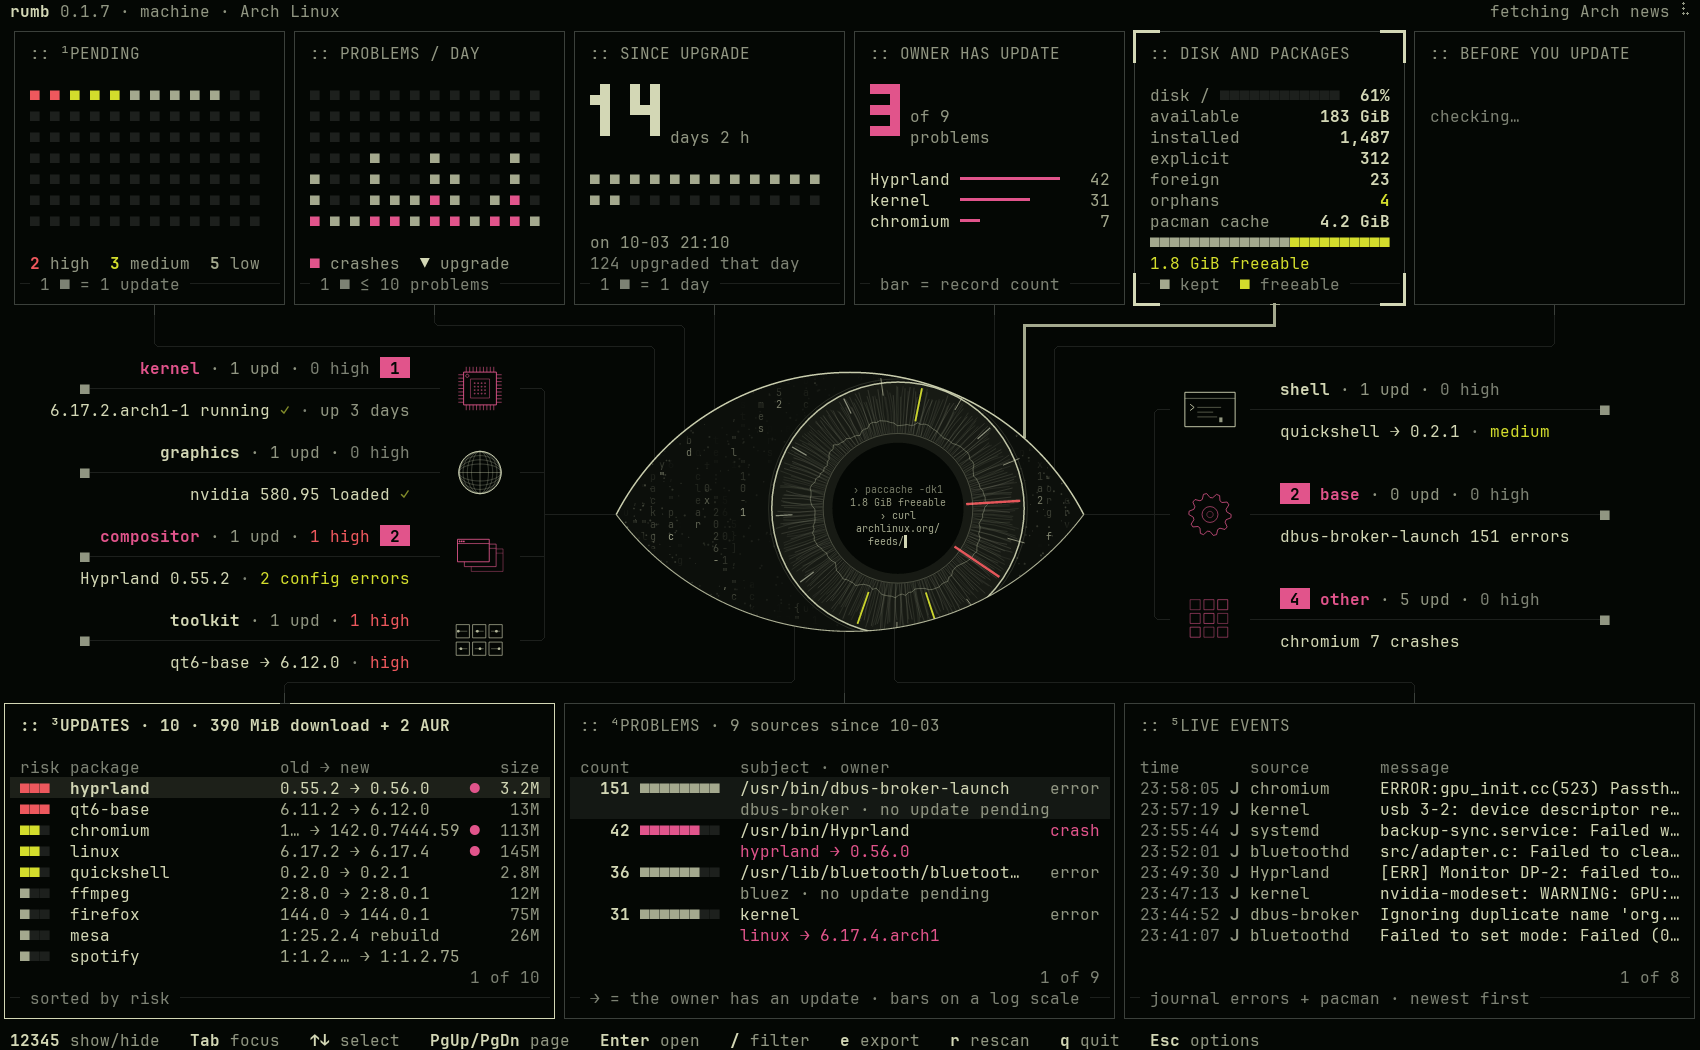
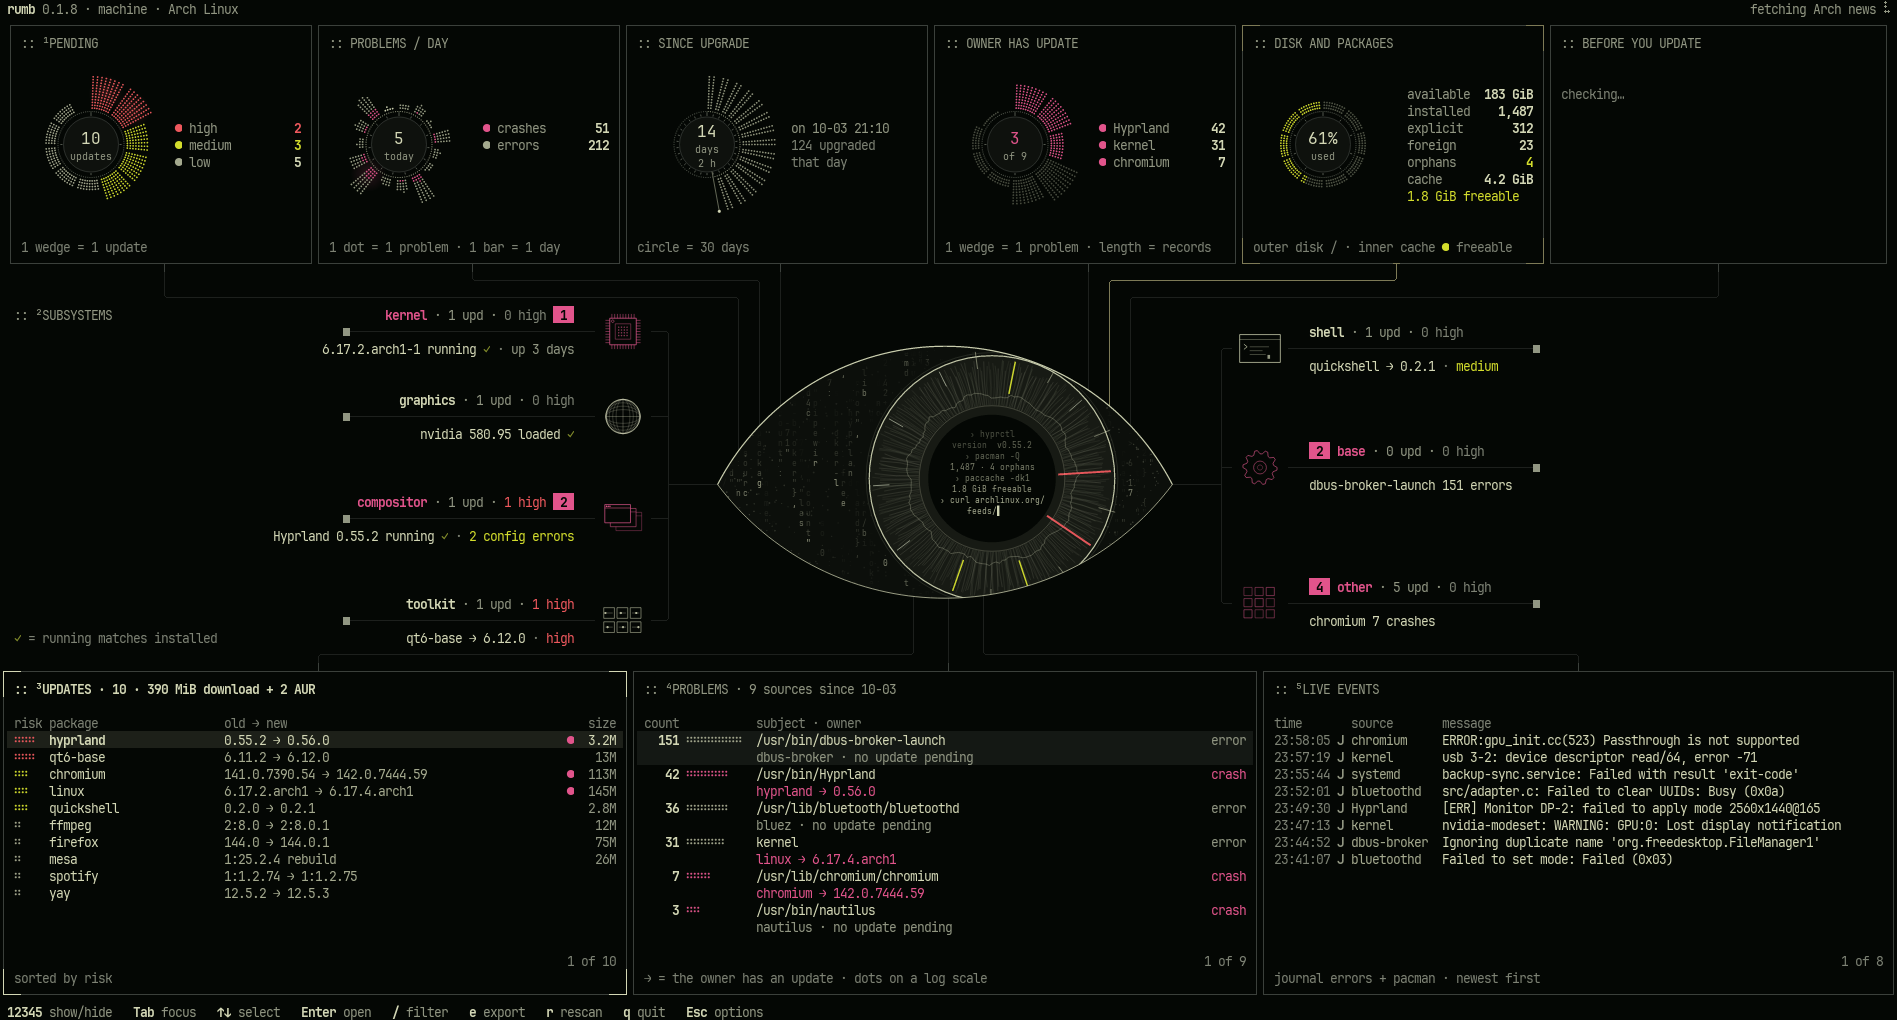
Release 0.1.8
The tiles are rings of dots that grow with wide windows, with a free
row above each ring and gaps in the fill rings, and the glow behind the
dots that need attention is softer. Every detail window shows risk,
cause and fix: the update window uses the same rows as the others with
may fix, rollback from the package cache, updating too and new
dependencies; a crash counts for the package of the library it happened
in; problems per day can be picked with the arrow keys and show their
programs, their owners and what pacman changed; journal lines and
problems name their owner. Low-risk updates are visible dots in the map,
the map draws no decorative specks, its headings stay inside the frame,
versions shorten to their leading parts, and the text in the pupil stays
still while the eye moves. The overview picture is taken at 271x60.

diff --git a/AGENTS.md b/AGENTS.md
@@ -14,7 +14,7 @@ Every release takes the same path, and each step waits for the maintainer's appr
 
 1. Create a worktree with a release branch from `main`:
    `git worktree add ../rumb-X.Y.Z -b release-X.Y.Z main`
-2. Do the work there. The release commit sets the version in `tui/Cargo.toml` and in the `rumb` entry of `tui/Cargo.lock`, the date in `man/rumb.1`, and refreshes `docs/overview.png` from the demo data at the same moment as before (frame 480 of the `motion_frames` test: 170×50, Labra).
+2. Do the work there. The release commit sets the version in `tui/Cargo.toml` and in the `rumb` entry of `tui/Cargo.lock`, the date in `man/rumb.1`, and refreshes `docs/overview.png` from the demo data at the same moment as before (frame 480 of the `motion_frames` test: 271×60 with 7×17 cells, Labra).
 3. Push the branch.
 4. Open a pull request against `main`.
 5. Merge it once the maintainer approves and CI is green.
